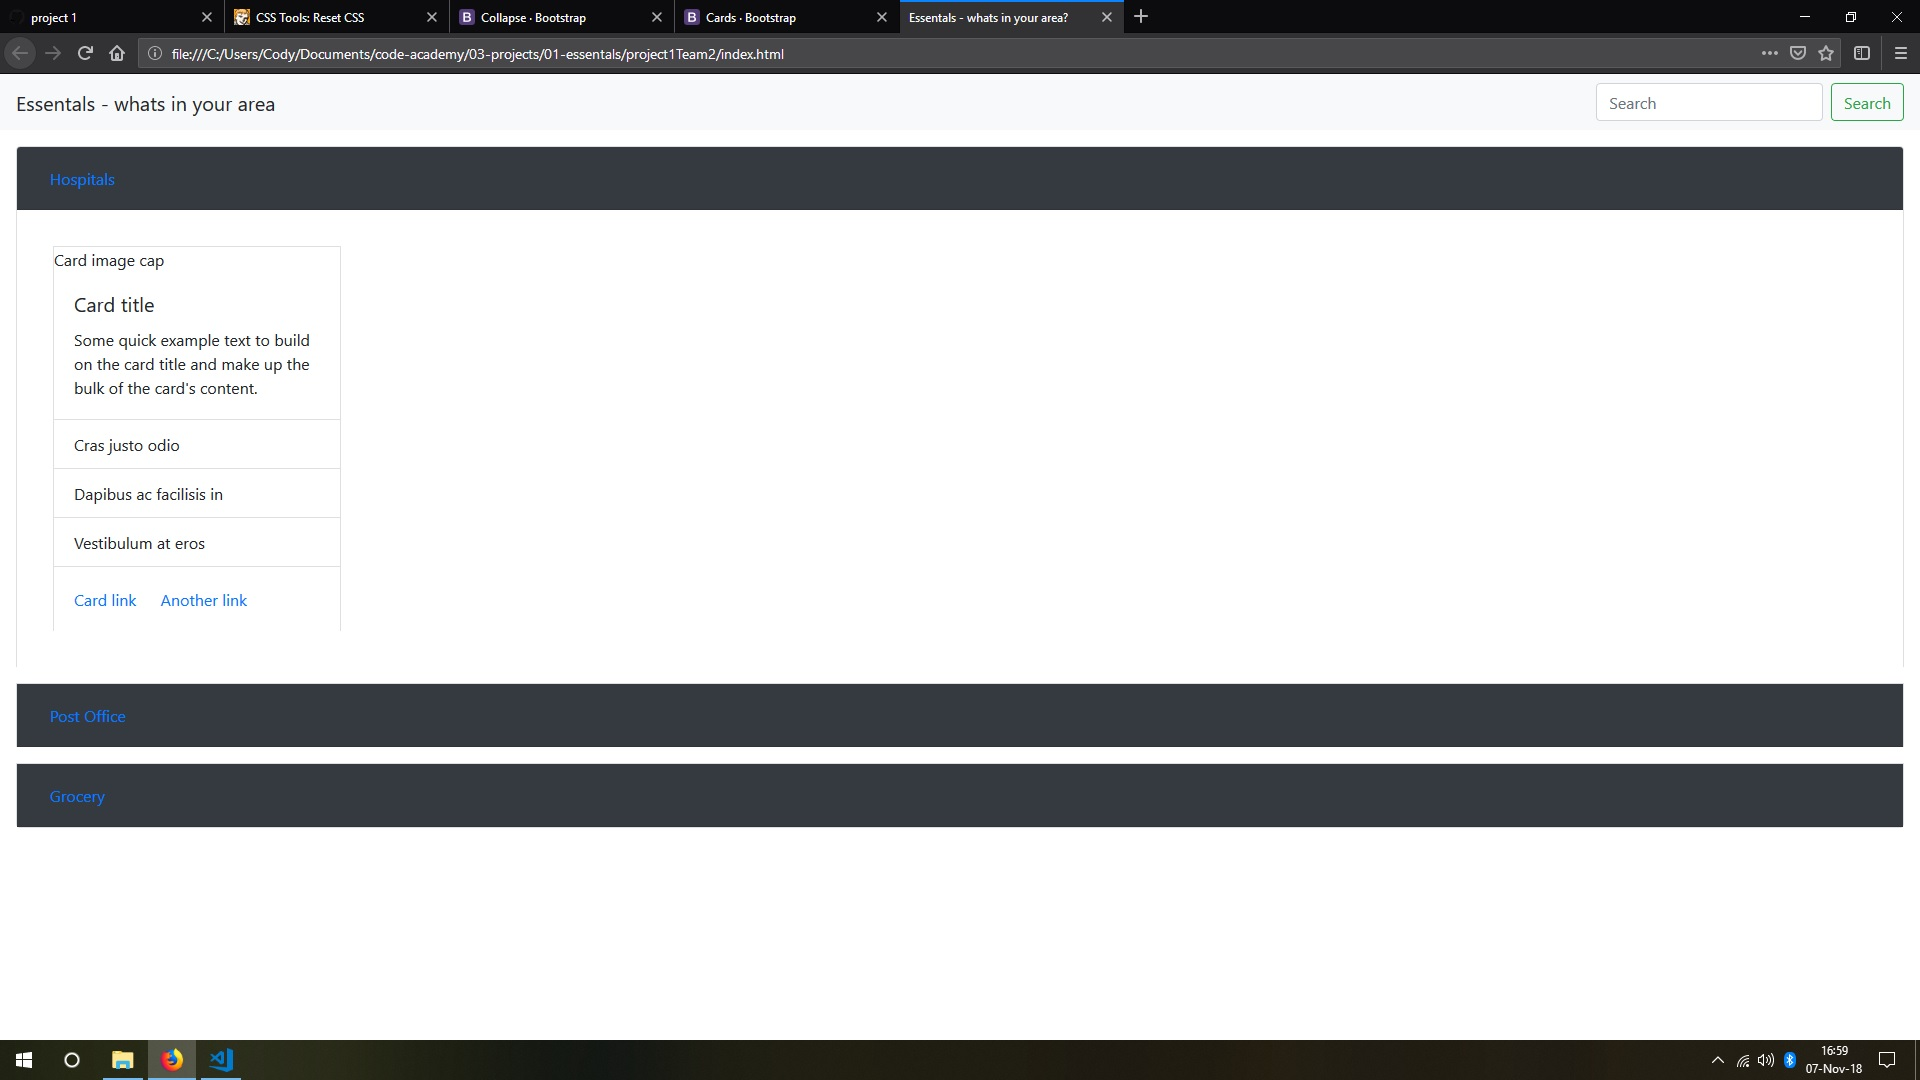
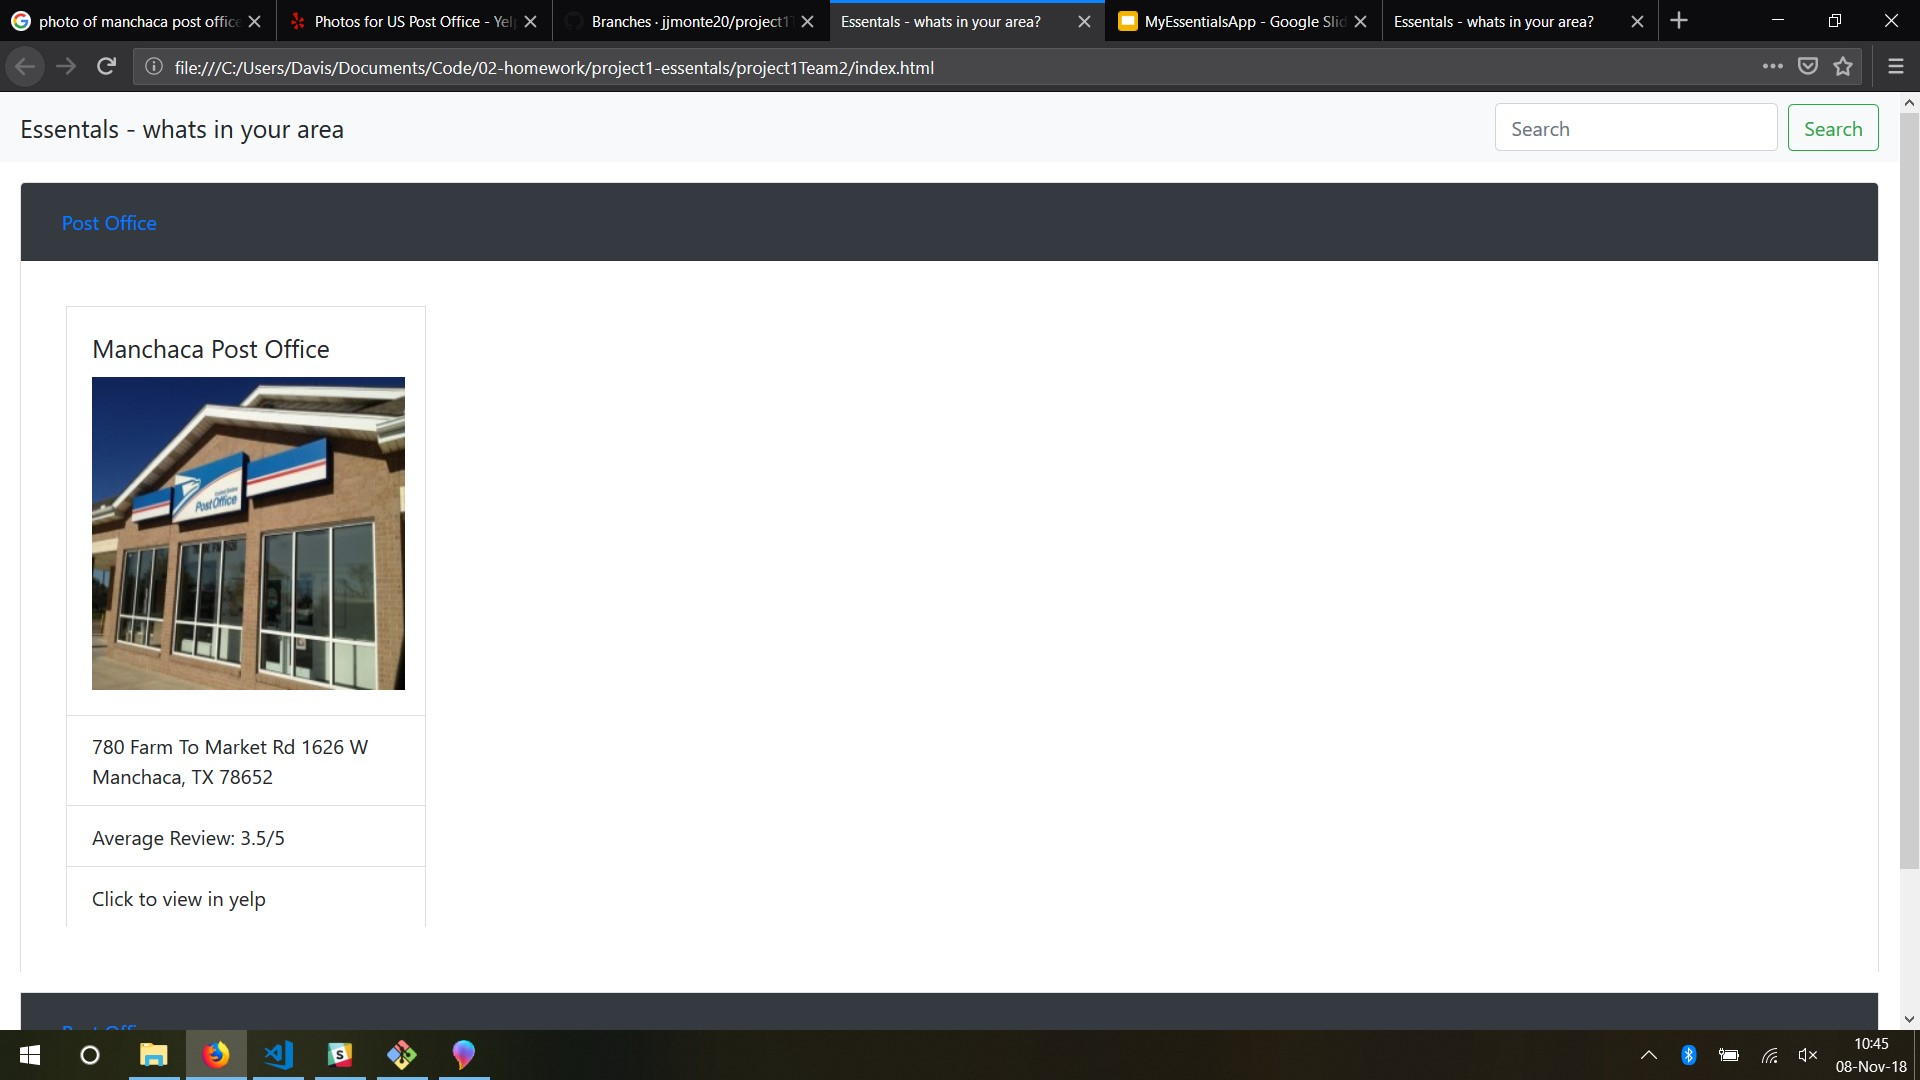
updated text and added a picture to better reflect target

diff --git a/index.html b/index.html
@@ -28,7 +28,7 @@
           <div class="card-header bg-dark navbar-dark" id="headingOne">
             <h5 class="mb-0">
               <button class="btn btn-link" type="button" data-toggle="collapse" data-target="#hospitalsArea" aria-expanded="true" aria-controls="hospitalsArea">
-                Hospitals
+                Post Office
               </button>
             </h5>
           </div>
@@ -36,20 +36,16 @@
           <div id="hospitalsArea" class="collapse show" aria-labelledby="headingOne" data-parent="#accordionExample">
             <div class="card-body">
                 <div class="card" style="width: 18rem;">
-                    <img class="card-img-top" src=".../100px180/?text=Image cap" alt="Card image cap">
+                    <!--<img class="card-img-top" src=".../100px180/?text=Image cap" alt="Card image cap">-->
                     <div class="card-body">
-                      <h5 class="card-title">Card title</h5>
-                      <p class="card-text">Some quick example text to build on the card title and make up the bulk of the card's content.</p>
+                      <h5 class="card-title">Manchaca Post Office</h5>
+                      <img src="ui-roughdraft.jpg">
                     </div>
                     <ul class="list-group list-group-flush">
-                      <li class="list-group-item">Cras justo odio</li>
-                      <li class="list-group-item">Dapibus ac facilisis in</li>
-                      <li class="list-group-item">Vestibulum at eros</li>
+                      <li class="list-group-item">780 Farm To Market Rd 1626 W Manchaca, TX 78652</li>
+                      <li class="list-group-item">Average Review: 3.5/5</li>
+                      <li class="list-group-item">Click to view in yelp</li>
                     </ul>
-                    <div class="card-body">
-                      <a href="#" class="card-link">Card link</a>
-                      <a href="#" class="card-link">Another link</a>
-                    </div>
                   </div>
             </div>
           </div>
